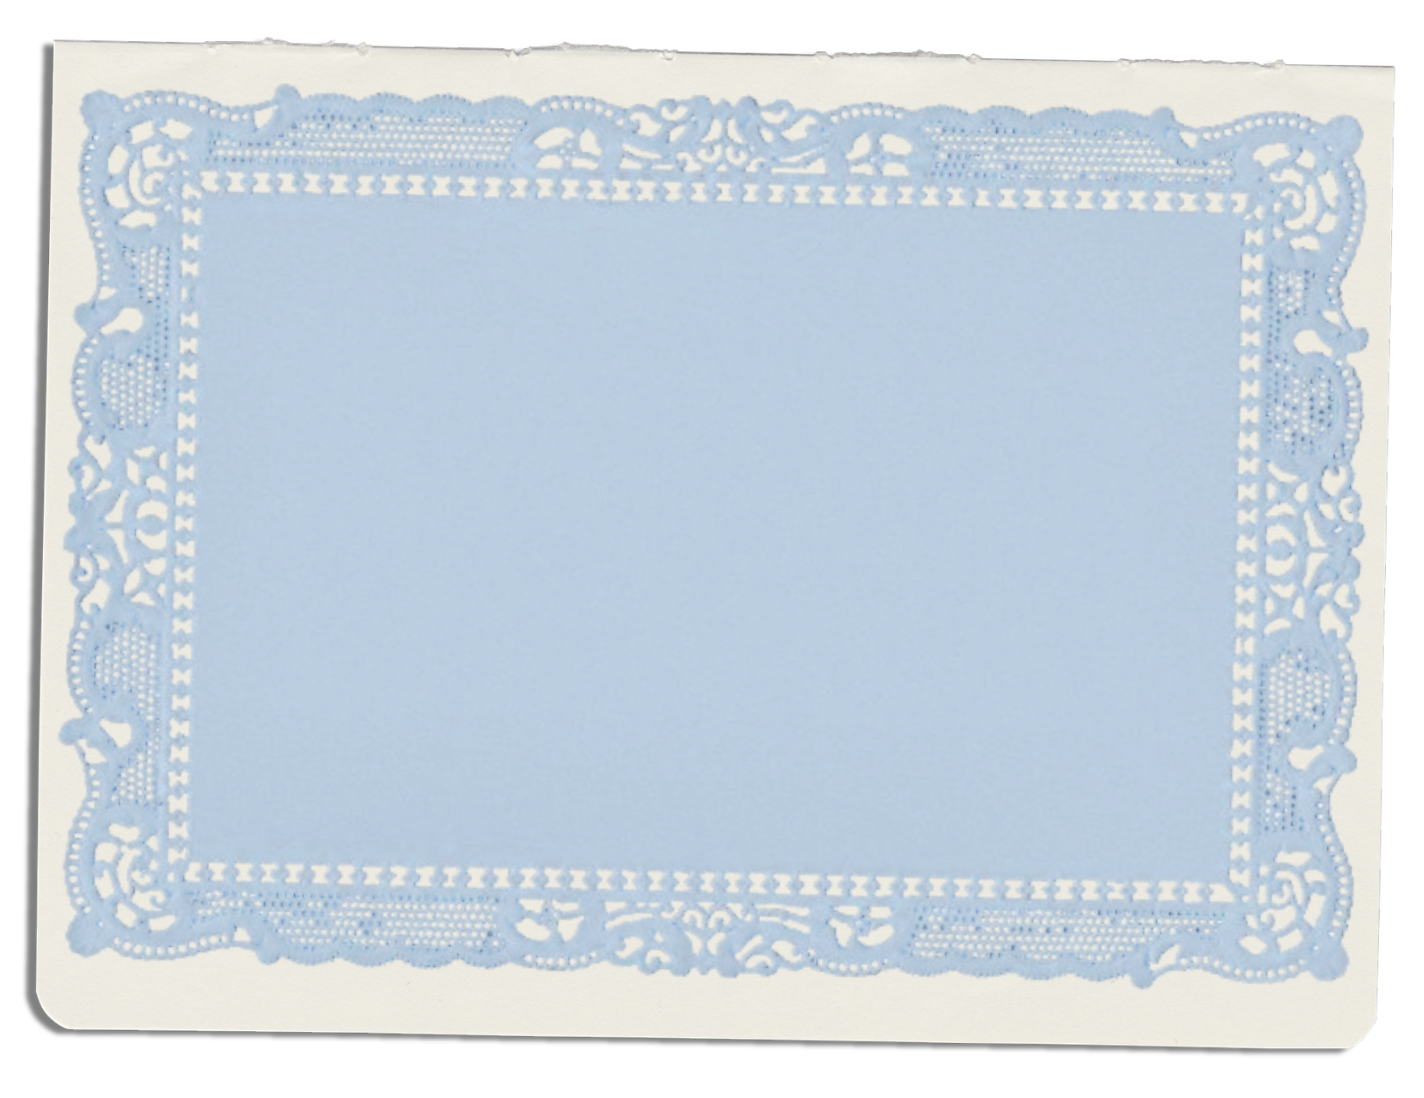
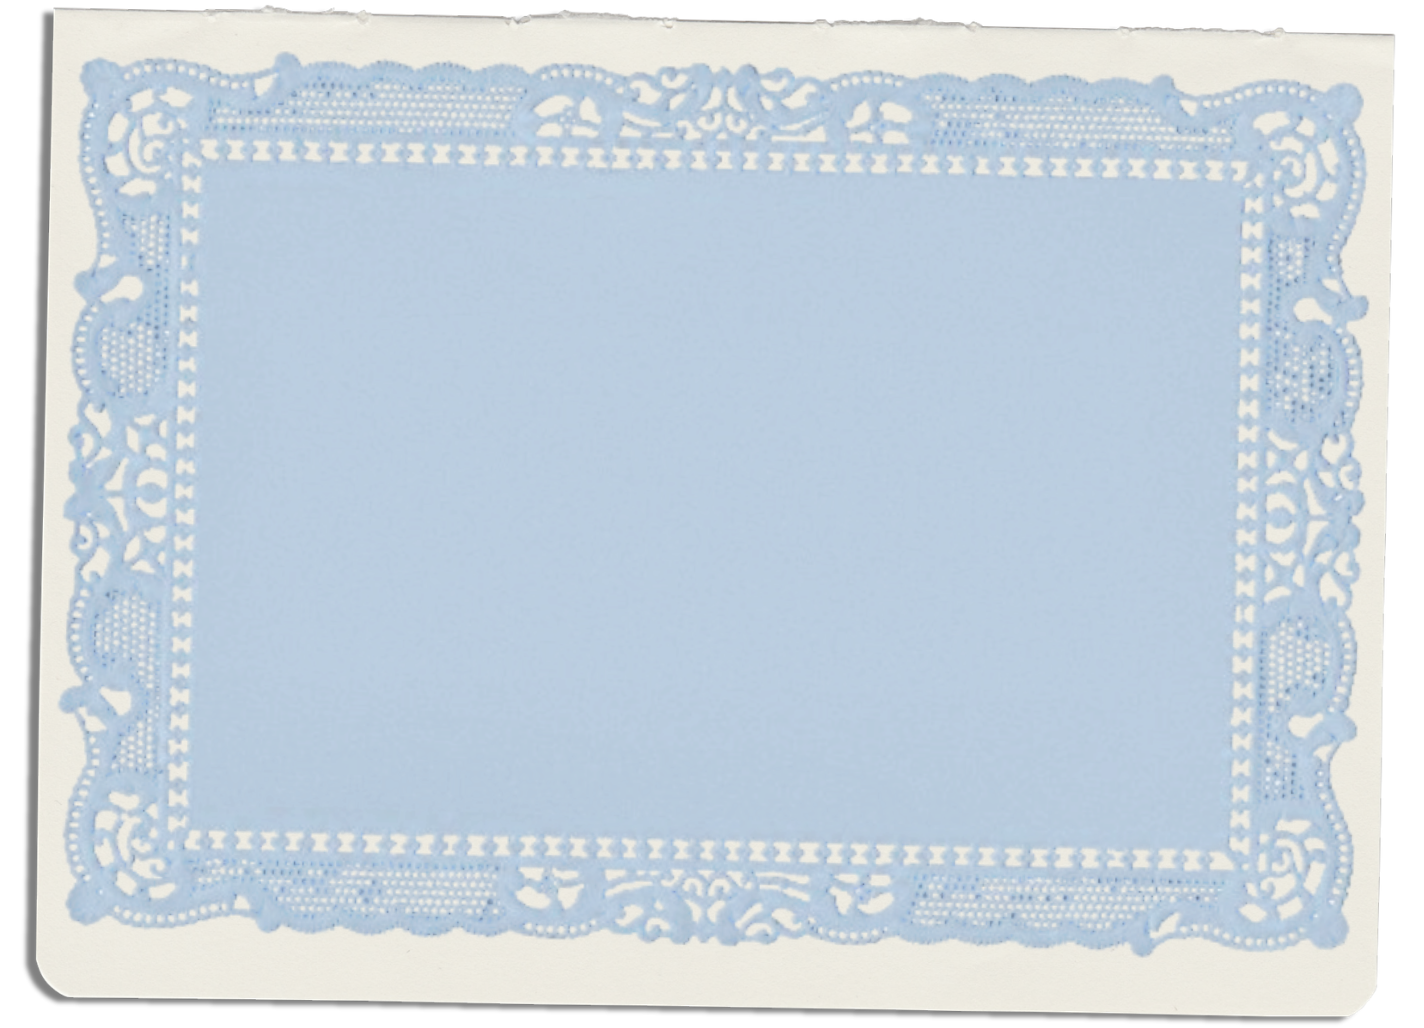
tablet format

diff --git a/style.css b/style.css
@@ -195,7 +195,7 @@ body{
     max-width: 800px;
     height: auto;
     display: block; /* centering */
-    margin: 0 auto;
+    margin: 0 auto 27px;
 
     opacity: 0;
     animation: textFadeDown 1.5s ease-out 1.3s forwards;
@@ -500,7 +500,7 @@ h3 {
   width: 100%;
   max-width: 630px;
   margin: 0 auto;
-  margin-top: -40px;
+  margin-top: -10px;
 
   opacity: 0;
   animation: letterFadeDown 1.5s ease-out forwards;
@@ -640,7 +640,7 @@ h3 {
     position: absolute;
     top: 50%;
     left: 50%;
-    width: 150%;
+    width: 145%;
     max-width: none;
     height: auto;
     margin: 0;
@@ -809,7 +809,7 @@ h3 {
     top: auto;
     right: auto;
     left: auto;
-    margin: 0 auto 10px;
+    margin: 0 auto 20px;
   }
 
   /* index letter */
@@ -875,7 +875,7 @@ h3 {
 }
 
 
-/* Standard desktop: keep the headshot tied to the centered content. */
+/* desktop: keep the headshot tied to the centered content */
 @media (min-width: 1025px) {
   .letter-stage .headshot {
     top: 180px;
